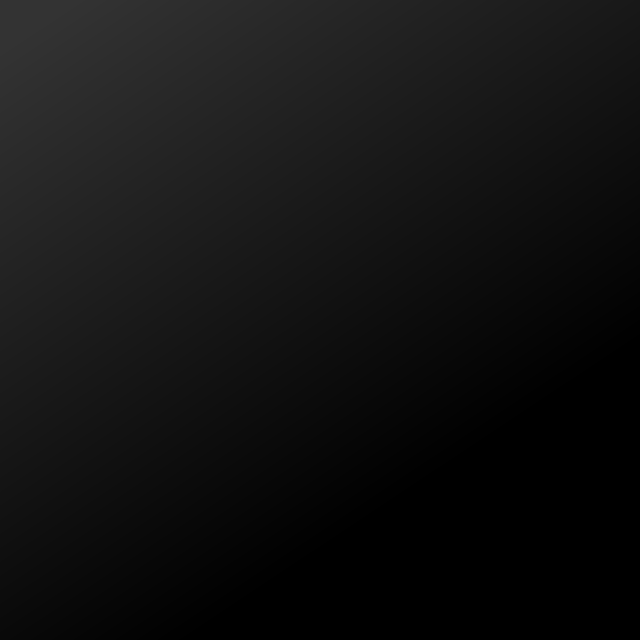
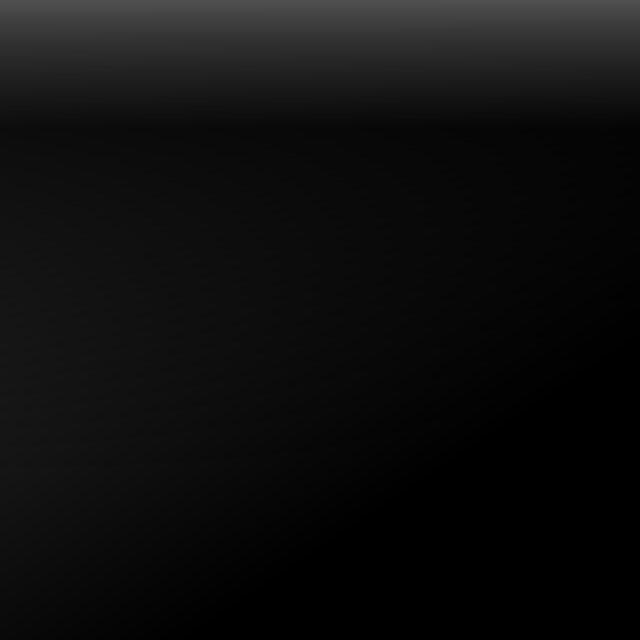
added About scene; attempts to work around bad unicode char support in webOS (not working so hot); minor bg graphic change

Changed region(s): [[0.0, 0.0, 1.0, 0.0938], [0.0, 0.1562, 0.4062, 0.3125]]

diff --git a/index.html b/index.html
@@ -5,19 +5,25 @@
 <html xmlns="http://www.w3.org/1999/xhtml" xml:lang="en">
 <head>
 	<title>Spaz Mobile</title>
-	
-	
+
+
+	<!-- Load the Mojo Framework -->
+	<script src="/usr/palm/frameworks/mojo/mojo.js" type="text/javascript" x-mojo-version="1"></script>
+
 	<script src="default_preferences.js" type="text/javascript" charset="utf-8"></script>
 		
 	<!-- Load libs required for SpazCore -->
 	<script src="spazcore/vendors/jquery-1.3.1.js" type="text/javascript" charset="utf-8"></script>
+	<script type="text/javascript" charset="utf-8">
+		jQuery.noConflict();
+	</script>
 	<script src="spazcore/vendors/json2.js" type="text/javascript" charset="utf-8"></script>
 	<script src="spazcore/vendors/webtoolkit.base64.js" type="text/javascript" charset="utf-8"></script>
 
 		
 	<!-- Load SC first  -->
 	<script src="spazcore/libs/spazcore.js" type="text/javascript" charset="utf-8"></script>
-	
+
 	<!-- Load SC helpers -->
 	<script src="spazcore/helpers/datetime.js" type="text/javascript" charset="utf-8"></script>
 	<script src="spazcore/helpers/javascript.js" type="text/javascript" charset="utf-8"></script>
@@ -41,26 +47,7 @@
 	<script src="libs/jquery.scrollTo.js" type="text/javascript" charset="utf-8"></script>
 
 
-	<!-- Load the Mojo Framework -->
-	<script src="/usr/palm/frameworks/mojo/mojo.js" type="text/javascript" x-mojo-version="1"></script>
-	
-	<!-- The device webkit needs this to enable HTML5 audio playback -->
-	<script src="/usr/lib/luna/luna-media/Audio.js" type="text/javascript"></script>
-	
 
-	
-	<!-- Load assistants -->
-	<script src="app/assistants/favorites-assistant.js" type="text/javascript" charset="utf-8"></script>
-	<script src="app/assistants/help-assistant.js" type="text/javascript" charset="utf-8"></script>
-	<script src="app/assistants/login-assistant.js" type="text/javascript" charset="utf-8"></script>
-	<script src="app/assistants/message-detail-assistant.js" type="text/javascript" charset="utf-8"></script>
-	<script src="app/assistants/my-timeline-assistant.js" type="text/javascript" charset="utf-8"></script>
-	<script src="app/assistants/preferences-assistant.js" type="text/javascript" charset="utf-8"></script>
-	<script src="app/assistants/search-twitter-assistant.js" type="text/javascript" charset="utf-8"></script>
-	<script src="app/assistants/stage-assistant.js" type="text/javascript" charset="utf-8"></script>
-	<script src="app/assistants/stage-lightweight-search-assistant.js" type="text/javascript" charset="utf-8"></script>
-	<script src="app/assistants/start-assistant.js" type="text/javascript" charset="utf-8"></script>
-	<script src="app/assistants/user-detail-assistant.js" type="text/javascript" charset="utf-8"></script>
 
 
 	<!-- Load the helpers for the app -->
@@ -70,18 +57,33 @@
 	<script src="app/models/users.js" type="text/javascript" charset="utf-8"></script>
 	<script src="app/models/tweets.js" type="text/javascript" charset="utf-8"></script>
 
+	
+	<!-- The device webkit needs this to enable HTML5 audio playback -->
+	<script src="/usr/lib/luna/luna-media/Audio.js" type="text/javascript"></script>
+
+	
+	<!-- Load assistants -->
+	<!-- <script src="app/assistants/favorites-assistant.js" type="text/javascript" charset="utf-8"></script>
+	<script src="app/assistants/help-assistant.js" type="text/javascript" charset="utf-8"></script>
+	<script src="app/assistants/login-assistant.js" type="text/javascript" charset="utf-8"></script>
+	<script src="app/assistants/message-detail-assistant.js" type="text/javascript" charset="utf-8"></script>
+	<script src="app/assistants/my-timeline-assistant.js" type="text/javascript" charset="utf-8"></script>
+	<script src="app/assistants/preferences-assistant.js" type="text/javascript" charset="utf-8"></script>
+	<script src="app/assistants/search-twitter-assistant.js" type="text/javascript" charset="utf-8"></script>
+	<script src="app/assistants/stage-assistant.js" type="text/javascript" charset="utf-8"></script>
+	<script src="app/assistants/stage-lightweight-search-assistant.js" type="text/javascript" charset="utf-8"></script>
+	<script src="app/assistants/start-assistant.js" type="text/javascript" charset="utf-8"></script>
+	<script src="app/assistants/user-detail-assistant.js" type="text/javascript" charset="utf-8"></script> -->
+
+
 
 	<!-- application stylesheet should come in after the one loaded by the framework -->
 	<link href="stylesheets/Dreadnaught.css" media="screen" rel="stylesheet" type="text/css" />
 
-	
 	<script type="text/javascript" charset="utf-8">
 		/*
 			this is a simple check to determine if we're using palmhost or not
 		*/
-		alert("Mojo.Host.current:", Mojo.Host.current);
-		alert("Mojo.Host.browser:", Mojo.Host.browser);
-
 		if (Mojo.Host.current === Mojo.Host.browser) {
 			var use_palmhost_proxy = true;
 		}

diff --git a/app/assistants/about-assistant.js b/app/assistants/about-assistant.js
@@ -1,0 +1,45 @@
+function AboutAssistant() {
+	/* this is the creator function for your scene assistant object. It will be passed all the 
+	   additional parameters (after the scene name) that were passed to pushScene. The reference
+	   to the scene controller (this.controller) has not be established yet, so any initialization
+	   that needs the scene controller should be done in the setup function below. */
+	scene_helpers.addCommonSceneMethods(this);
+}
+
+AboutAssistant.prototype.setup = function() {
+	this.scroller = this.controller.getSceneScroller();
+	this.initAppMenu();
+
+	this.setupCommonMenus({
+		viewMenuItems: [
+			{
+				items: [
+					{label: "About Spaz", command:'scroll-top'}
+				]
+			}
+		]
+	});
+	/* this function is for setup tasks that have to happen when the scene is first created */
+		
+	/* use Mojo.View.render to render view templates and add them to the scene, if needed. */
+	
+	/* setup widgets here */
+	
+	/* add event handlers to listen to events from widgets */
+}
+
+AboutAssistant.prototype.activate = function(event) {
+	/* put in event handlers here that should only be in effect when this scene is active. For
+	   example, key handlers that are observing the document */
+}
+
+
+AboutAssistant.prototype.deactivate = function(event) {
+	/* remove any event handlers you added in activate and do any other cleanup that should happen before
+	   this scene is popped or another scene is pushed on top */
+}
+
+AboutAssistant.prototype.cleanup = function(event) {
+	/* this function should do any cleanup needed before the scene is destroyed as 
+	   a result of being popped off the scene stack */
+}

diff --git a/stylesheets/Dreadnaught.css b/stylesheets/Dreadnaught.css
@@ -1,9 +1,9 @@
 /* Put Application specific CSS here. */
 
 BODY, BODY>div[x-mojo-element=Scroller] {	
-/*	background-image: url('../images/theme/page-bg-dark-splash.png');*/
+	background-image: url('../images/theme/page-bg-dark.png');
 	background-color:#111111;
-	color:#CCCCCC;
+	color:#EEEEEE;
 }
 
 BODY {
@@ -575,15 +575,14 @@ div.spaz-drawer {
 		}
 		#post-panel-irt-dismiss {
 			color:white;
-			background-color:#666;
-			height:12px;
-			width: 16px;
-			padding-bottom:4px;
-/*			-webkit-border-radius:8px;*/
 			display:inline-block;
+			font-size:18px;
+			background-color:#666;
+			height:16px;
+			line-height:10px;
+			width: 18px;
+			margin-bottom:4px;
 			text-align:center;
-			vertical-align:20%;
-			
 		} 
 			#post-panel-irt-dismiss:active {
 				background-color:#333;
@@ -824,5 +823,29 @@ div.error_info {
 		-webkit-border-image: url(../images/theme/text-link-bg.png) 0 7 0 7;
 	}
 		#start-smallprint a:active, {
+			-webkit-border-image: url(../images/theme/text-link-bg-active.png) 0 7 0 7;
+		}
+		
+		
+/*
+	about scene
+*/
+#about-content {
+	font-size:75%;
+	margin:0px 5px;
+	line-height:1.3em;
+}
+	#about-content a:link,
+	#about-content a:visited {
+		font-weight:normal;
+		display:inline-block;
+		color:#ffffcc;
+/*		padding:0px 0px 4px;*/
+		text-decoration:underline;
+/*		height:14px;*/
+/*		border-width:0px 7px;*/
+/*		-webkit-border-image: url(../images/theme/text-link-bg.png) 0 7 0 7;*/
+	}
+		#about-content a:active, {
 			-webkit-border-image: url(../images/theme/text-link-bg-active.png) 0 7 0 7;
 		}

diff --git a/app/helpers/scene.js b/app/helpers/scene.js
@@ -167,7 +167,9 @@ scene_helpers.addCommonSceneMethods = function(assistant) {
 					findAndSwapScene("manage-followers", this);
 					break;
 
-
+				case 'appmenu-about':
+					Mojo.Controller.stageController.pushScene("about", this);
+					break;
 				case Mojo.Menu.prefsCmd:
 					Mojo.Controller.stageController.pushScene("preferences", this);
 					break;
@@ -1178,11 +1180,30 @@ var makeItemsClickable = function(str) {
 	str = sch.autolink(str);
 	str = sch.autolinkTwitterScreenname(str, '<span class="username clickable" data-user-screen_name="#username#">@#username#</span>');
 	str = sch.autolinkTwitterHashtag(str, '<span class="hashtag clickable" data-hashtag="#hashtag#">##hashtag#</span>');
+
 	
 	return str;
 };
 
 
 
+/*
+	Remap JSON parser to work around webOS deficiencies with unicode chars
+*/
+JSON.parse_orig = JSON.parse;
 
-
+JSON.parse = function(str) {
+	function hex2dec(str, p1) {	
+		Mojo.Log.info('BEFORE HEX', p1);
+		var dec = parseInt(p1, 16);
+		var dec_str = '&#'+dec.toString()+';';
+		Mojo.Log.info('AFTER DEC:', dec_str);
+		return dec_str;
+	}
+	
+	str = str.replace(/\\u([0-9a-f]{4})/gi, hex2dec);
+	Mojo.Log.info(str);
+	obj = JSON.parse_orig(str);
+	Mojo.Log.info(obj);
+	return obj;
+};

diff --git a/app/assistants/stage-assistant.js b/app/assistants/stage-assistant.js
@@ -1,13 +1,8 @@
 function StageAssistant () {
 	this.firstload = true;	
-	alert('HELLO!!!');
 }
 
-///var/usr/palm/applications/com.funkatron.app.spaz/app/assistants/stage-assistant.js:2
-
-
 StageAssistant.prototype.setup = function() {
-	// thisSA.controller.pushScene('start');
 	// this.controller.pushScene('binding');
 	// this.controller.pushScene('my-timeline');
 	// this.controller.pushScene('search-twitter', {searchterm:'funkatron'});
@@ -17,13 +12,10 @@ StageAssistant.prototype.setup = function() {
 	/*
 		model for saving Tweets to Depot
 	*/
-	alert('making sc.app.Tweets');
 	sc.app.Tweets = new Tweets();
-	alert('made sc.app.Tweets');
-	
+
 	sc.app.search_cards = [];
 	sc.app.new_search_card = 0;
-	alert('made sc.app.search_cards');
 
 	sc.app.username = null;
 	sc.app.password = null;

diff --git a/app/views/about/about-scene.html b/app/views/about/about-scene.html
@@ -1,0 +1,14 @@
+<div id="about-content">
+You are currently running a preview release of Spaz for webOS. We think this version is pretty darn good, but we have more planned for 1.0, including:
+
+<ul>
+	<li>Ping.FM integration</li>
+	<li>Uploading photos and images</li>
+	<li>Integration with Synergy</li>
+	<li>Search history &amp; saved searches</li>
+</ul>
+
+Our plan is to charge $3 for the 1.0 version.<br><br>
+
+Spaz is <strong><a href="http://www.opensource.org/">open source software</a></strong> with a New BSD-style license. We need volunteers to participate in the development process. If you're interested in helping, please join the <a href="http://groups.google.com/group/spaz-mobile">Spaz Mobile Google Group</a>.
+</div>
